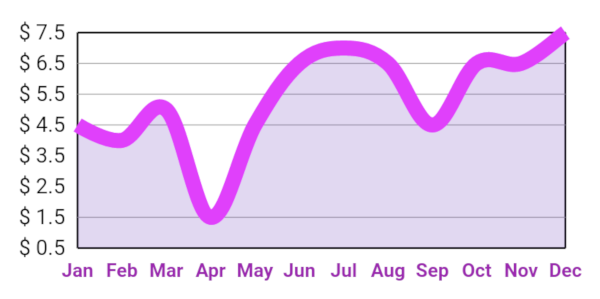
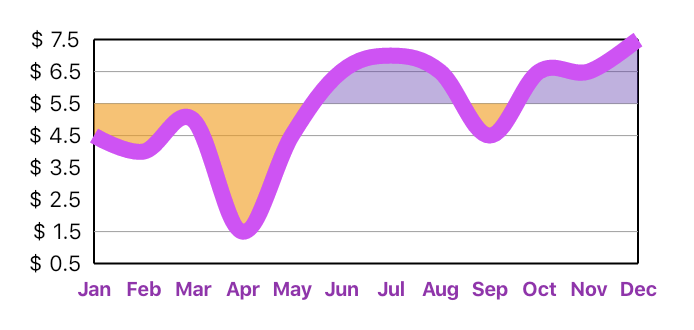
changed line_chart_sample4 to show the cutOffY feature

diff --git a/example/lib/line_chart/samples/line_chart_sample3.dart b/example/lib/line_chart/samples/line_chart_sample3.dart
@@ -3,7 +3,7 @@ import 'package:flutter/material.dart';
 
 class LineChartSample3 extends StatelessWidget {
 
-  var weekDays = ['Sat', 'Sun', 'Mon', 'Tue', 'Wed', 'Thu', 'Fri', ];
+  final weekDays = ['Sat', 'Sun', 'Mon', 'Tue', 'Wed', 'Thu', 'Fri', ];
 
   @override
   Widget build(BuildContext context) {
@@ -13,12 +13,12 @@ class LineChartSample3 extends StatelessWidget {
       children: <Widget>[
         Row(
           mainAxisSize: MainAxisSize.min,
-          children: <Widget>[
-            const Text('Average Line',
+          children: const <Widget> [
+            Text('Average Line',
               style: TextStyle(color: Colors.green, fontWeight: FontWeight.bold, fontSize: 16),),
-            const Text(' and ',
+            Text(' and ',
               style: TextStyle(color: Colors.black, fontWeight: FontWeight.bold, fontSize: 16),),
-            const Text('Indicators',
+            Text('Indicators',
               style: TextStyle(color: Colors.blue, fontWeight: FontWeight.bold, fontSize: 16),),
           ],
         ),
@@ -71,7 +71,7 @@ class LineChartSample3 extends StatelessWidget {
                 ),
                 lineBarsData: [
                   LineChartBarData(
-                    spots: [
+                    spots: const [
                       FlSpot(0, 1.3),
                       FlSpot(1, 1),
                       FlSpot(2, 1.8),
@@ -85,22 +85,22 @@ class LineChartSample3 extends StatelessWidget {
                     colors: [
                       Colors.orange,
                     ],
-                    belowBarData: BelowBarData(
+                    belowBarData: BarAreaData(
                       show: true,
                       colors: [
                         Colors.orange.withOpacity(0.5),
                         Colors.orange.withOpacity(0.0),
                       ],
                       gradientColorStops: [0.5, 1.0],
-                      gradientFrom: Offset(0, 0),
-                      gradientTo: Offset(0, 1),
-                      belowSpotsLine: BelowSpotsLine(
+                      gradientFrom: const Offset(0, 0),
+                      gradientTo: const Offset(0, 1),
+                      spotsLine: BarAreaSpotsLine(
                         show: true,
                         flLineStyle: const FlLine(
                           color: Colors.blue,
                           strokeWidth: 2,
                         ),
-                        checkToShowSpotBelowLine: (spot) {
+                        checkToShowSpotLine: (spot) {
                           if (spot.x == 0 || spot.x == 6) {
                             return false;
                           }
@@ -188,5 +188,4 @@ class LineChartSample3 extends StatelessWidget {
       ],
     );
   }
-
 }

diff --git a/example/lib/line_chart/samples/line_chart_sample1.dart b/example/lib/line_chart/samples/line_chart_sample1.dart
@@ -135,7 +135,7 @@ class LineChartSample1State extends State<LineChartSample1> {
         leftTitles: SideTitles(
           showTitles: true,
           textStyle: TextStyle(
-            color: Color(0xff75729e),
+            color: const Color(0xff75729e),
             fontWeight: FontWeight.bold,
             fontSize: 14,
           ),
@@ -202,7 +202,7 @@ class LineChartSample1State extends State<LineChartSample1> {
         dotData: FlDotData(
           show: false,
         ),
-        belowBarData: BelowBarData(
+        belowBarData: BarAreaData(
           show: false,
         ),
       ),
@@ -224,7 +224,7 @@ class LineChartSample1State extends State<LineChartSample1> {
         dotData: FlDotData(
           show: false,
         ),
-        belowBarData: BelowBarData(
+        belowBarData: BarAreaData(
           show: false,
           colors: [
             Color(0x00aa4cfc),
@@ -248,7 +248,7 @@ class LineChartSample1State extends State<LineChartSample1> {
         dotData: FlDotData(
           show: false,
         ),
-        belowBarData: BelowBarData(
+        belowBarData: BarAreaData(
           show: false,
         ),
       ),
@@ -286,7 +286,7 @@ class LineChartSample1State extends State<LineChartSample1> {
         leftTitles: SideTitles(
           showTitles: true,
           textStyle: TextStyle(
-            color: Color(0xff75729e),
+            color: const Color(0xff75729e),
             fontWeight: FontWeight.bold,
             fontSize: 14,
           ),
@@ -356,7 +356,7 @@ class LineChartSample1State extends State<LineChartSample1> {
         dotData: FlDotData(
           show: false,
         ),
-        belowBarData: BelowBarData(
+        belowBarData: BarAreaData(
           show: false,
         ),
       ),
@@ -378,7 +378,7 @@ class LineChartSample1State extends State<LineChartSample1> {
         dotData: FlDotData(
           show: false,
         ),
-        belowBarData: BelowBarData(
+        belowBarData: BarAreaData(
           show: true,
           colors: [
             Color(0x33aa4cfc),
@@ -403,7 +403,7 @@ class LineChartSample1State extends State<LineChartSample1> {
         dotData: FlDotData(
           show: true,
         ),
-        belowBarData: BelowBarData(
+        belowBarData: BarAreaData(
           show: false,
         ),
       ),

diff --git a/example/lib/line_chart/samples/line_chart_sample4.dart b/example/lib/line_chart/samples/line_chart_sample4.dart
@@ -5,6 +5,9 @@ class LineChartSample4 extends StatelessWidget {
 
   @override
   Widget build(BuildContext context) {
+
+    const cutOffYValue = 5.0;
+
     return SizedBox(
       width: 300,
       height: 140,
@@ -14,7 +17,7 @@ class LineChartSample4 extends StatelessWidget {
             lineTouchData: const LineTouchData(enabled: false),
             lineBarsData: [
               LineChartBarData(
-                spots: [
+                spots: const [
                   FlSpot(0, 4),
                   FlSpot(1, 3.5),
                   FlSpot(2, 4.5),
@@ -33,11 +36,19 @@ class LineChartSample4 extends StatelessWidget {
                 colors: [
                   Colors.purpleAccent,
                 ],
-                belowBarData: BelowBarData(
+                belowBarData: BarAreaData(
                   show: true,
-                  colors: [Colors.deepPurple.withOpacity(0.2)],
+                  colors: [Colors.deepPurple.withOpacity(0.4)],
+                  cutOffY: cutOffYValue,
+                  applyCutOffY: true,
                 ),
-                dotData: FlDotData(
+                aboveBarData: BarAreaData(
+                  show: true,
+                  colors: [Colors.orange.withOpacity(0.6)],
+                  cutOffY: cutOffYValue,
+                  applyCutOffY: true,
+                ),
+                dotData: const FlDotData(
                   show: false,
                 ),
               ),
@@ -73,6 +84,7 @@ class LineChartSample4 extends StatelessWidget {
                       return 'Nov';
                     case 11:
                       return 'Dec';
+                    default: return '';
                   }
                 }
               ),

diff --git a/example/lib/line_chart/samples/line_chart_sample5.dart b/example/lib/line_chart/samples/line_chart_sample5.dart
@@ -13,7 +13,7 @@ class LineChartSample5 extends StatelessWidget {
           LineChartData(
             lineTouchData: const LineTouchData(enabled: false),
             lineBarsData: [
-              LineChartBarData(
+              const LineChartBarData(
                 spots: [
                   FlSpot(0, 1),
                   FlSpot(1, 2),
@@ -25,7 +25,7 @@ class LineChartSample5 extends StatelessWidget {
                 ],
                 isCurved: true,
                 barWidth: 4,
-                belowBarData: BelowBarData(
+                belowBarData: BarAreaData(
                   show: true,
                 ),
                 dotData: FlDotData(show: false),
@@ -63,7 +63,7 @@ class LineChartSample5 extends StatelessWidget {
                 )
               ),
             ),
-            gridData: FlGridData(show: false),
+            gridData: const FlGridData(show: false),
             borderData: FlBorderData(
               show: true,
             ),

diff --git a/example/lib/line_chart/samples/line_chart_sample6.dart b/example/lib/line_chart/samples/line_chart_sample6.dart
@@ -85,7 +85,7 @@ class LineChartSample6 extends StatelessWidget {
                       isCurved: true,
                       isStrokeCapRound: true,
                       barWidth: 10,
-                      belowBarData: const BelowBarData(
+                      belowBarData: const BarAreaData(
                         show: false,
                       ),
                       dotData: FlDotData(
@@ -103,7 +103,7 @@ class LineChartSample6 extends StatelessWidget {
                       isCurved: true,
                       isStrokeCapRound: true,
                       barWidth: 10,
-                      belowBarData: const BelowBarData(
+                      belowBarData: const BarAreaData(
                         show: false,
                       ),
                       dotData: FlDotData(

diff --git a/example/lib/line_chart/samples/line_chart_sample2.dart b/example/lib/line_chart/samples/line_chart_sample2.dart
@@ -139,7 +139,7 @@ class _LineChartSample2State extends State<LineChartSample2> {
           dotData: const FlDotData(
             show: false,
           ),
-          belowBarData: BelowBarData(
+          belowBarData: BarAreaData(
             show: true,
             colors: gradientColors.map((color) => color.withOpacity(0.3)).toList(),
           ),
@@ -235,7 +235,7 @@ class _LineChartSample2State extends State<LineChartSample2> {
           dotData: const FlDotData(
             show: false,
           ),
-          belowBarData: BelowBarData(
+          belowBarData: BarAreaData(
             show: true,
             colors: [
               ColorTween(begin: gradientColors[0], end: gradientColors[1]).lerp(0.2).withOpacity(0.1),
